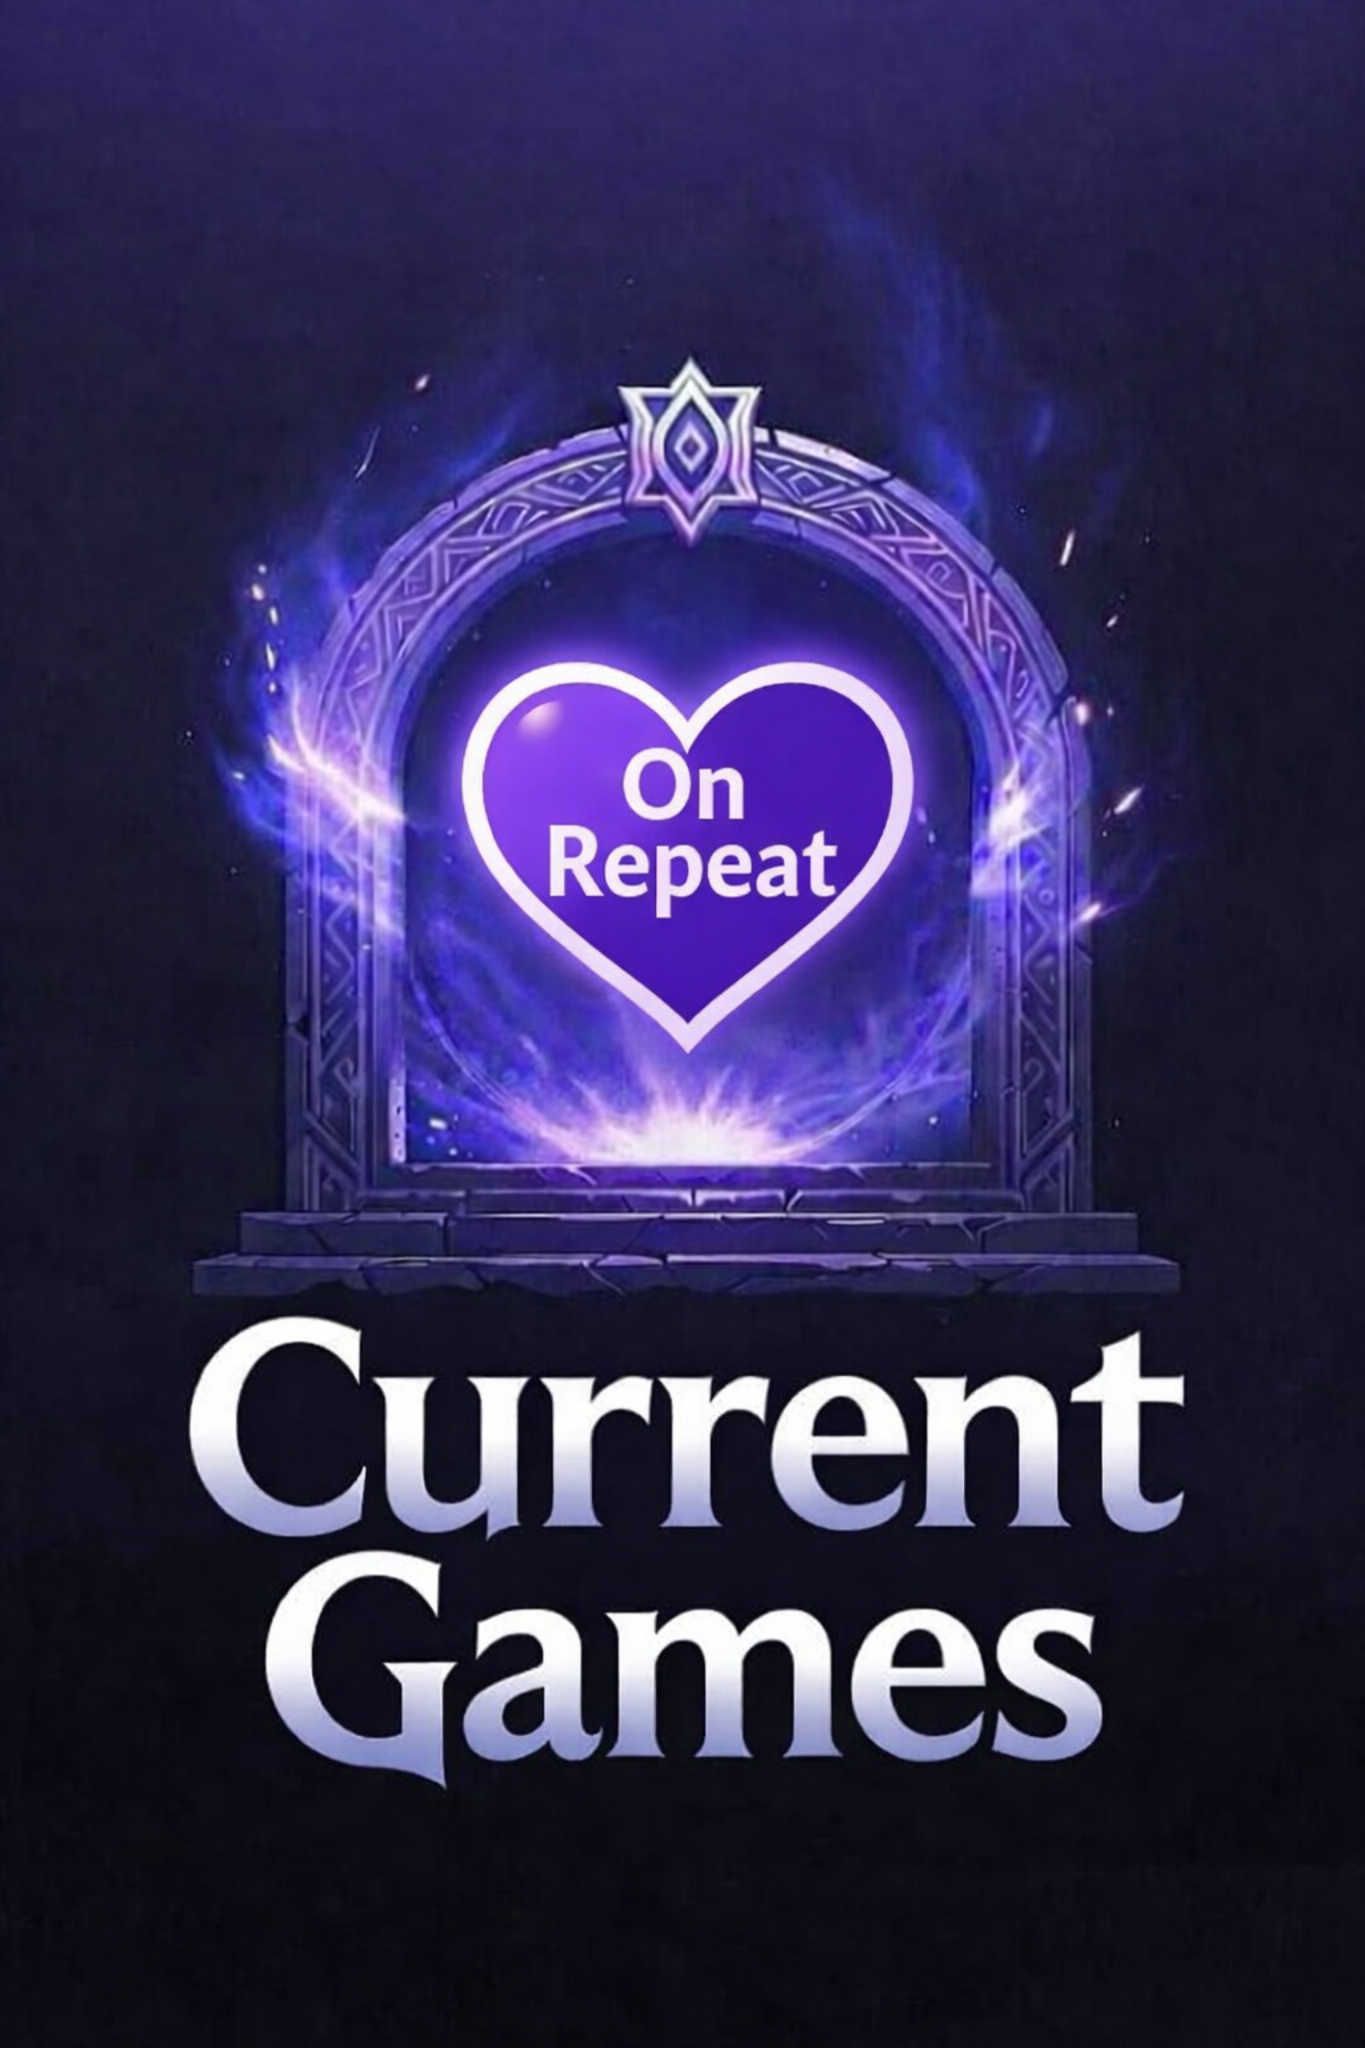
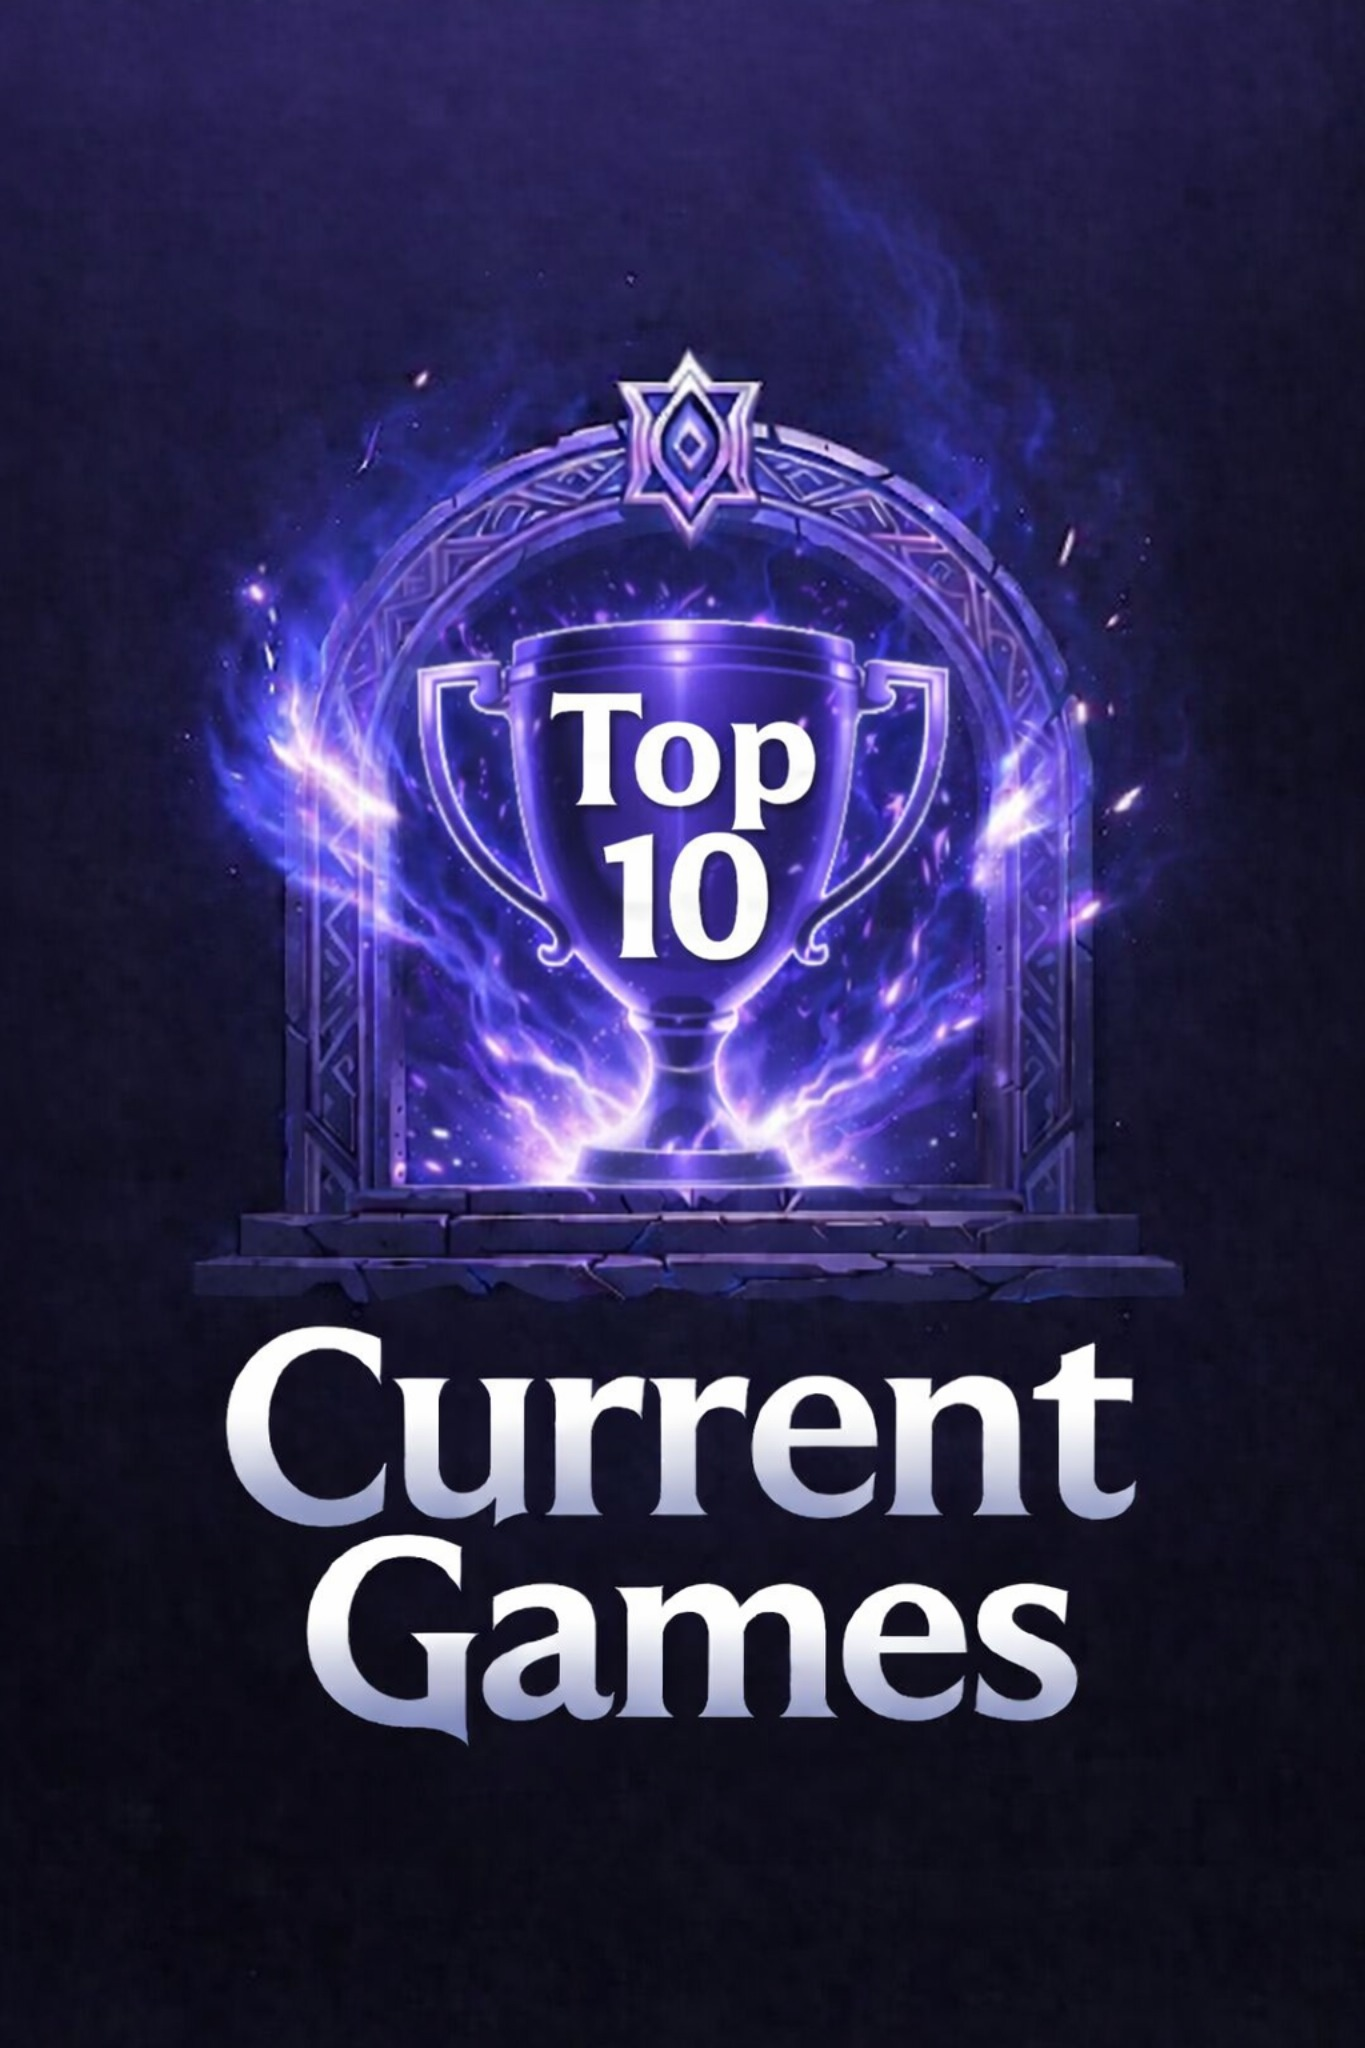
Add files via upload

Changed region(s): [[0.1231, 0.1562, 0.8923, 0.875], [0.9538, 0.0, 0.9846, 0.0312]]

diff --git a/games.html b/games.html
@@ -3,7 +3,7 @@
 <head>
   <meta charset="utf-8"/>
   <meta name="viewport" content="width=device-width, initial-scale=1"/>
-  <title>Current Games • Realm Forge</title>
+  <title>Top 10 • Realm Forge</title>
   <meta name="description" content="Realm Forge — a modern gaming site by William S.. Current games and reviews."/>
   <link rel="icon" href="./assets/svg/icon-sword.svg" type="image/svg+xml">
   <link rel="stylesheet" href="style.css"/>
@@ -17,8 +17,8 @@
     <nav class="nav" aria-label="Primary navigation">
       <a class="navbtn" href="index.html" aria-label="Home"><img src="./assets/nav/home.jpg" alt="Home"></a>
       <a class="navbtn" href="about.html" aria-label="About"><img src="./assets/nav/about.jpg" alt="About"></a>
-      <a class="navbtn" href="games.html" aria-label="Current Games"><img src="./assets/nav/games.jpg" alt="Current Games"></a>
-      <a class="navbtn" href="reviews.html" aria-label="Reviews"><img src="./assets/nav/reviews.jpg" alt="Reviews"></a>
+      <a class="navbtn" href="games.html" aria-label="Top 10"><img src="./assets/nav/games.jpg" alt="Top 10"></a>
+      <a class="navbtn" href="reviews.html" aria-label="Projects"><img src="./assets/nav/reviews.jpg" alt="Projects"></a>
     </nav>
   </div>
 </header>
@@ -31,7 +31,7 @@
 
   <section class="intro">
     <div class="container">
-      <h1>Current Games</h1>
+      <h1 class="h1">Top 10</h1>
       <p>These are the games I’m playing the most right now. I’ll keep updating this list as I discover new favorites.</p>
     </div>
   </section>

diff --git a/reviews.html b/reviews.html
@@ -3,7 +3,7 @@
 <head>
   <meta charset="utf-8"/>
   <meta name="viewport" content="width=device-width, initial-scale=1"/>
-  <title>Reviews • Realm Forge</title>
+  <title>Projects • Realm Forge</title>
   <meta name="description" content="Realm Forge — a modern gaming site by William S.. Current games, reviews, and videos."/>
   <link rel="icon" href="./assets/svg/icon-sword.svg" type="image/svg+xml">
   <link rel="stylesheet" href="style.css"/>
@@ -15,8 +15,8 @@
     <nav class="nav" aria-label="Primary navigation">
   <a class="navbtn" href="index.html" aria-label="Home"><img src="./assets/nav/home.jpg" alt="Home"></a>
   <a class="navbtn" href="about.html" aria-label="About"><img src="./assets/nav/about.jpg" alt="About"></a>
-  <a class="navbtn" href="games.html" aria-label="Current Games"><img src="./assets/nav/games.jpg" alt="Current Games"></a>
-  <a class="navbtn" href="reviews.html" aria-label="Reviews"><img src="./assets/nav/reviews.jpg" alt="Reviews"></a>
+  <a class="navbtn" href="games.html" aria-label="Top 10"><img src="./assets/nav/games.jpg" alt="Top 10"></a>
+  <a class="navbtn" href="reviews.html" aria-label="Projects"><img src="./assets/nav/reviews.jpg" alt="Projects"></a>
 </nav>
   </div>
 </header>
@@ -30,7 +30,7 @@
 </section>
 <main class="container">
   <section class="section">
-    <h2 class="h2">Reviews</h2>
+    <h2 class="h2">Projects</h2>
     <p class="p">Coming soon.</p>
   </section>
 </main>

diff --git a/index.html b/index.html
@@ -17,8 +17,8 @@
     <nav class="nav" aria-label="Primary navigation">
       <a class="navbtn" href="index.html" aria-label="Home"><img src="./assets/nav/home.jpg" alt="Home"></a>
       <a class="navbtn" href="about.html" aria-label="About"><img src="./assets/nav/about.jpg" alt="About"></a>
-      <a class="navbtn" href="games.html" aria-label="Current Games"><img src="./assets/nav/games.jpg" alt="Current Games"></a>
-      <a class="navbtn" href="reviews.html" aria-label="Reviews"><img src="./assets/nav/reviews.jpg" alt="Reviews"></a>
+      <a class="navbtn" href="games.html" aria-label="Top 10"><img src="./assets/nav/games.jpg" alt="Top 10"></a>
+      <a class="navbtn" href="reviews.html" aria-label="Projects"><img src="./assets/nav/reviews.jpg" alt="Projects"></a>
     </nav>
   </div>
 </header>

diff --git a/about.html b/about.html
@@ -15,8 +15,8 @@
     <nav class="nav" aria-label="Primary navigation">
   <a class="navbtn" href="index.html" aria-label="Home"><img src="./assets/nav/home.jpg" alt="Home"></a>
   <a class="navbtn" href="about.html" aria-label="About"><img src="./assets/nav/about.jpg" alt="About"></a>
-  <a class="navbtn" href="games.html" aria-label="Current Games"><img src="./assets/nav/games.jpg" alt="Current Games"></a>
-  <a class="navbtn" href="reviews.html" aria-label="Reviews"><img src="./assets/nav/reviews.jpg" alt="Reviews"></a>
+  <a class="navbtn" href="games.html" aria-label="Top 10"><img src="./assets/nav/games.jpg" alt="Top 10"></a>
+  <a class="navbtn" href="reviews.html" aria-label="Projects"><img src="./assets/nav/reviews.jpg" alt="Projects"></a>
 </nav>
   </div>
 </header>
